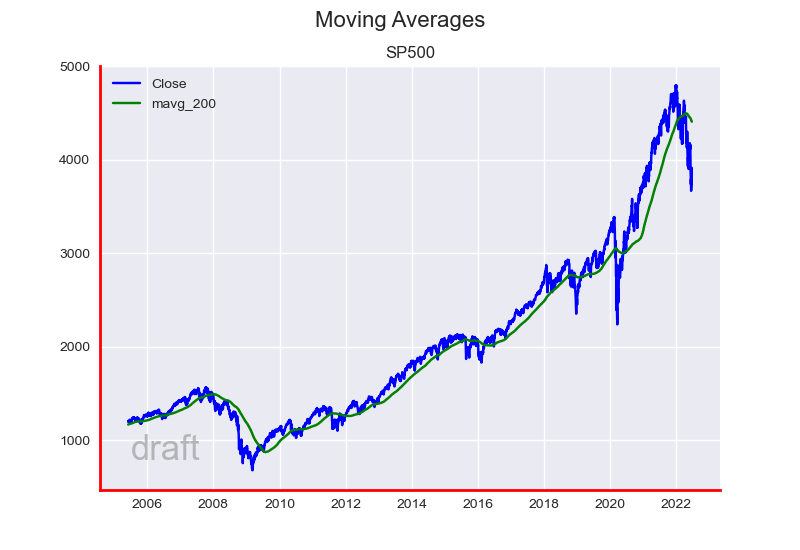
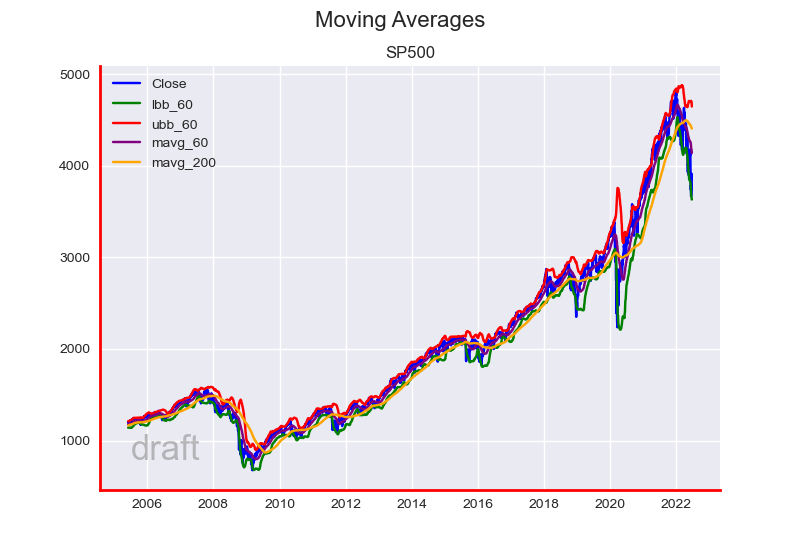
added features derived from simple technicals

diff --git a/kappa.py b/kappa.py
@@ -22,29 +22,27 @@ if __name__ == '__main__':
     # adding dependent variables
     # ----------------------------------------------------------------
 
-    # 30 day return (%)
-    sp500_df['ret_30day'] = sp500_df['Close'].pct_change(30)
-    sp500_df['ret_30day'] = sp500_df['ret_30day'].shift(-30)  #.fillna(method='ffill')
-
-    # 60 day return (%)    
-    sp500_df['ret_60day'] = sp500_df['Close'].pct_change(60)
-    sp500_df['ret_60day'] = sp500_df['ret_60day'].shift(-60)  #.fillna(method='ffill')
-
     # 90 day return (%)
     sp500_df['ret_90day'] = sp500_df['Close'].pct_change(90)
     sp500_df['ret_90day'] = sp500_df['ret_90day'].shift(-90)  #.fillna(method='ffill')
-    #sp500_df['ret_1yr'] = sp500_df['Close'].pct_change(365)
+
+    # 180 day return (%)    
+    sp500_df['ret_180day'] = sp500_df['Close'].pct_change(180)
+    sp500_df['ret_180day'] = sp500_df['ret_180day'].shift(-180)  #.fillna(method='ffill')
+
+    # 1 yr return (%)
+    sp500_df['ret_1yr'] = sp500_df['Close'].pct_change(365)
+    sp500_df['ret_1yr'] = sp500_df['ret_1yr'].shift(-365)  #.fillna(method='ffill')
+
+    # 2 yr return (%)
+    sp500_df['ret_2yr'] = sp500_df['Close'].pct_change(730)
+    sp500_df['ret_2yr'] = sp500_df['ret_2yr'].shift(-730)  #.fillna(method='ffill')
 
 
-    # adding simple technicals as features
+    # adding simple technicals
     # ----------------------------------------------------------------    
     sp500_techs = simple_technicals(sp500_df)
     
-    # 5 day moving avg and moving std deviation
-    sp500_techs.moving_avg(5, 'Close', 'mavg_5')
-    sp500_techs.moving_std(5, 'Close', 'mstd_5')
-    sp500_techs.bol_bands(5, 2, 'mavg_5', 'mstd_5', 'lbb_5', 'ubb_5')
-
     # 10 day moving avg and moving std deviation
     sp500_techs.moving_avg(10, 'Close', 'mavg_10')
     sp500_techs.moving_std(10, 'Close', 'mstd_10')
@@ -54,11 +52,40 @@ if __name__ == '__main__':
     sp500_techs.moving_avg(20, 'Close', 'mavg_20')
     sp500_techs.moving_std(20, 'Close', 'mstd_20')
     sp500_techs.bol_bands(20, 2, 'mavg_20', 'mstd_20', 'lbb_20', 'ubb_20')
+
+    # 30 day moving avg and moving std deviation
+    sp500_techs.moving_avg(30, 'Close', 'mavg_30')
+    sp500_techs.moving_std(30, 'Close', 'mstd_30')
+    sp500_techs.bol_bands(30, 2, 'mavg_30', 'mstd_30', 'lbb_30', 'ubb_30')
+
+    # 60 day moving avg and moving std deviation
+    sp500_techs.moving_avg(60, 'Close', 'mavg_60')
+    sp500_techs.moving_std(60, 'Close', 'mstd_60')
+    sp500_techs.bol_bands(60, 2, 'mavg_60', 'mstd_60', 'lbb_60', 'ubb_60')
+
+    # 180 day moving avg and moving std deviation
+    sp500_techs.moving_avg(180, 'Close', 'mavg_180')
+    sp500_techs.moving_std(180, 'Close', 'mstd_180')
+    sp500_techs.bol_bands(180, 2, 'mavg_180', 'mstd_180', 'lbb_180', 'ubb_180')
     
     sp500_techs.moving_avg(200, 'Close', 'mavg_200')
-    sp500_df = sp500_techs.get_df()
-    #sp500_df['mavg10_mstd_10'] = sp500_df['mavg_10'] - sp500_df['mstd_10']
+
     
+    # features
+    # ----------------------------------------------------------------   
+    sp500_df = sp500_techs.get_df()
+
+    sp500_df['mavg20_lbb20'] = sp500_df['mavg_20'] - sp500_df['lbb_20']  # 20 day moving avg - lbb 20
+    sp500_df['mavg20_lbb30'] = sp500_df['mavg_20'] - sp500_df['lbb_30']  # 20 day moving avg - lbb 30
+    sp500_df['mavg30_lbb30'] = sp500_df['mavg_30'] - sp500_df['lbb_30']  # 30 day moving avg - lbb 30
+    sp500_df['mavg30_lbb60'] = sp500_df['mavg_30'] - sp500_df['lbb_60']  # 30 day moving avg - lbb 60
+    sp500_df['mavg60_lbb60'] = sp500_df['mavg_60'] - sp500_df['lbb_60']  # 60 day moving avg - lbb 60
+    sp500_df['mavg60_lbb180'] = sp500_df['mavg_60'] - sp500_df['lbb_180']  # 60 day moving avg - lbb 180
+    sp500_df['mavg180_lbb180'] = sp500_df['mavg_180'] - sp500_df['lbb_180']  # 180 day moving avg - lbb 180
+    
+
+    sp500_df = sp500_techs.get_df()
+   
     print(sp500_df.head(225).to_string())
     print(sp500_df)
     #print(sp500_df.to_string())
@@ -66,18 +93,26 @@ if __name__ == '__main__':
     
 
     # visualize
+    # ----------------------------------------------------------------   
     # pick a timeframe to visualize (or create the plot for all time units)
     mask = (sp500_df['Date'] > '2005-06-01') & (sp500_df['Date'] <= '2022-06-25')
 
-    line_chart = arq_viz(sp500_df.loc[mask])
-    line_chart.plot_title = 'SP500'
-    line_chart.plot_suptitle = 'Moving Averages'
-    line_chart.watermark = 'draft'
-    line_chart.line_chart('charts//line_chart_sp500.png', 'Date', ['Close', 'mavg_200'], watermark_loc='lower_left')
+    ma_bb_60day = arq_viz(sp500_df.loc[mask])
+    ma_bb_60day.plot_title = 'SP500'
+    ma_bb_60day.plot_suptitle = 'Moving Averages'
+    ma_bb_60day.watermark = 'draft'
+    ma_bb_60day.line_chart('charts//line_chart_sp500.png', 'Date', ['Close', 'lbb_60', 'ubb_60', 'mavg_60', 'mavg_200'], watermark_loc='lower_left')
 
     mask2 = (sp500_df['Date'] > '2020-01-01') & (sp500_df['Date'] <= '2022-06-25')
 
-    ma_bb_5day = arq_viz(sp500_df.loc[mask2])    
-    ma_bb_5day.plot_suptitle = '5 day MABB'
-    ma_bb_5day.watermark = 'draft'
-    ma_bb_5day.line_chart('charts//5day_bb_sp500.png', 'Date', ['Close', 'lbb_20', 'ubb_20', 'mavg_200'], watermark_loc='lower_left')
+    ma_bb_30day = arq_viz(sp500_df.loc[mask2])    
+    ma_bb_30day.plot_suptitle = '30 day MABB'
+    ma_bb_30day.watermark = 'draft'
+    ma_bb_30day.line_chart('charts//30day_bb_sp500.png', 'Date', ['Close', 'lbb_30', 'ubb_30', 'mavg_30', 'mavg_200'], watermark_loc='lower_left')
+
+    
+    # save data for model development
+    # ----------------------------------------------------------------   
+    save_vars = ['Date', 'ret_1yr'] + ['mavg20_lbb20', 'mavg20_lbb30', 'mavg30_lbb30', 'mavg30_lbb60', 'mavg60_lbb60']
+    df = sp500_df[save_vars].copy()    
+    df.to_csv('output//sp500_processed.csv', index=False)

diff --git a/data_proc.py b/data_proc.py
@@ -25,6 +25,7 @@ class data_load:
     def get_file(self):
         return self.file
 
+
 if __name__ == '__main__':
 
     # generate random data clusters
